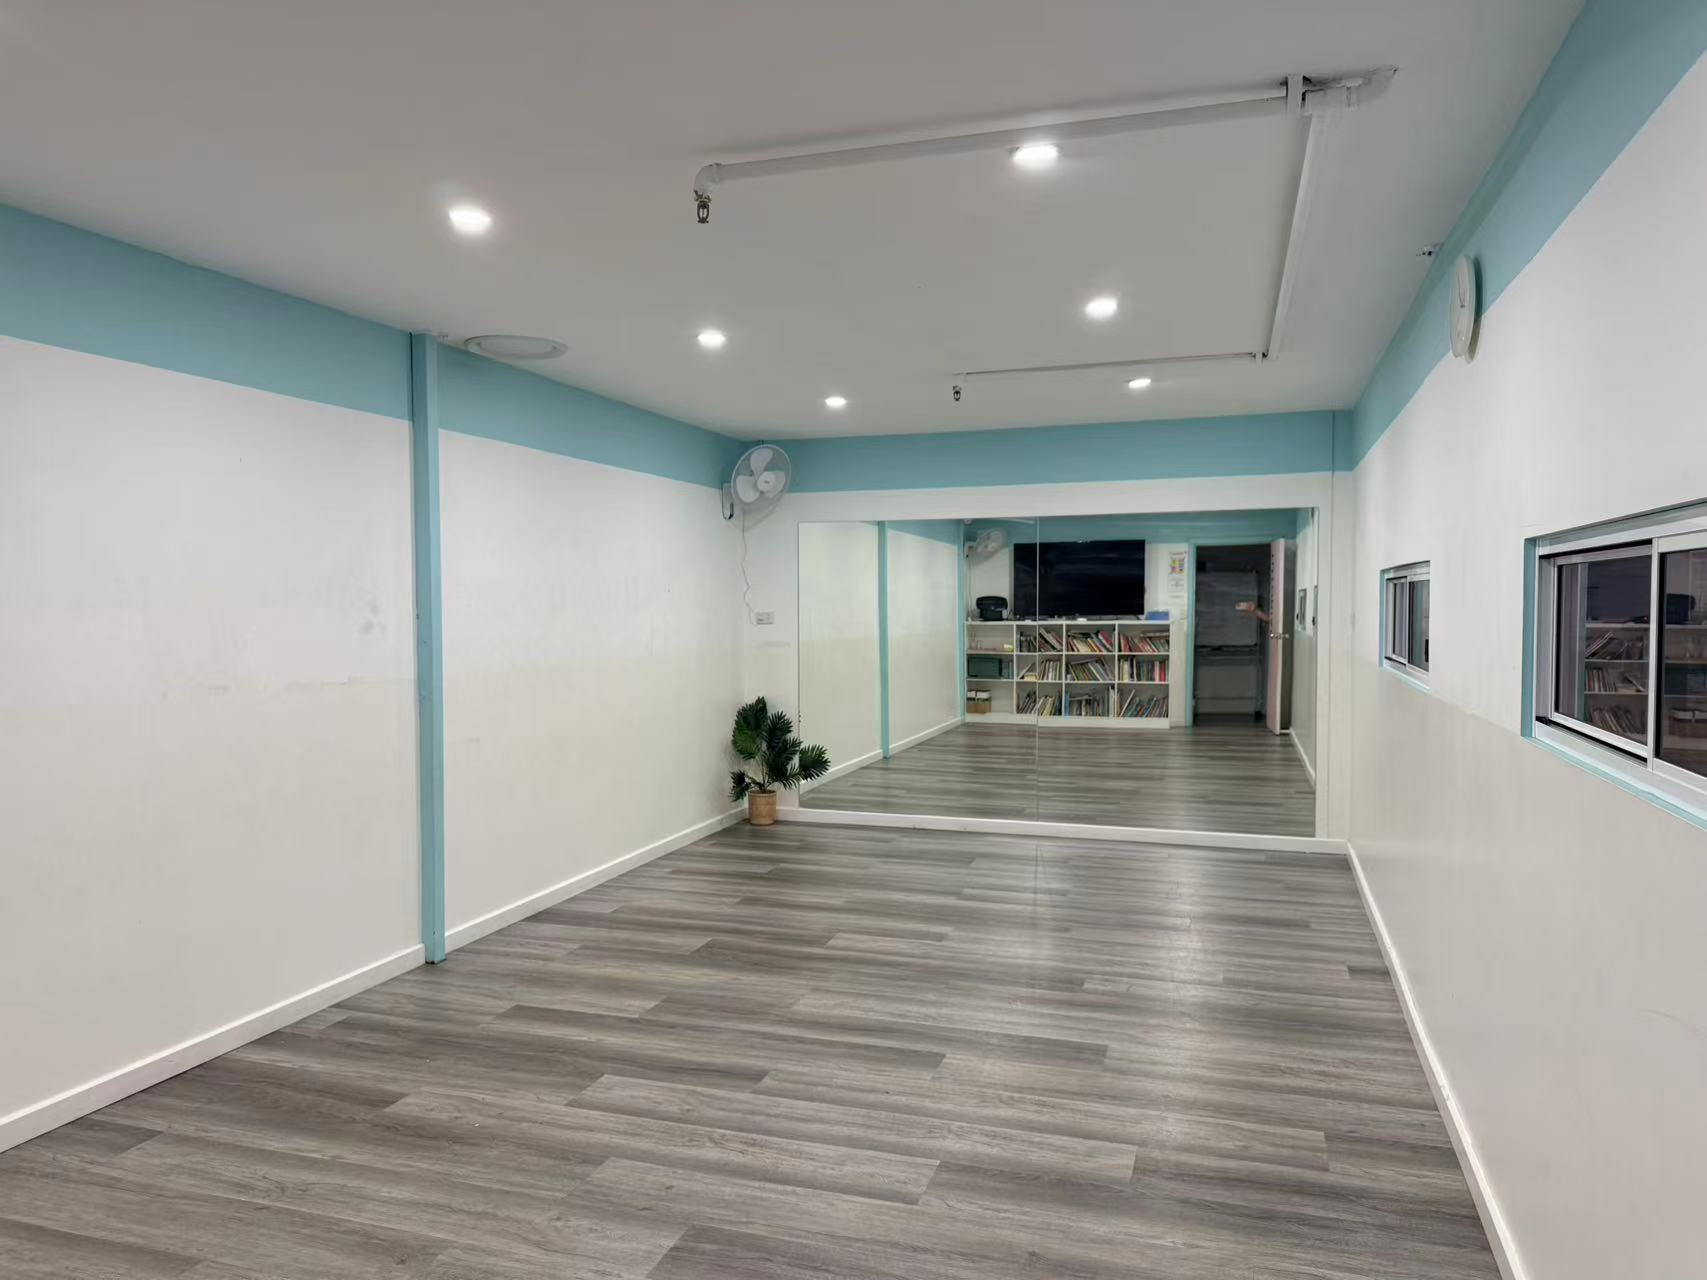
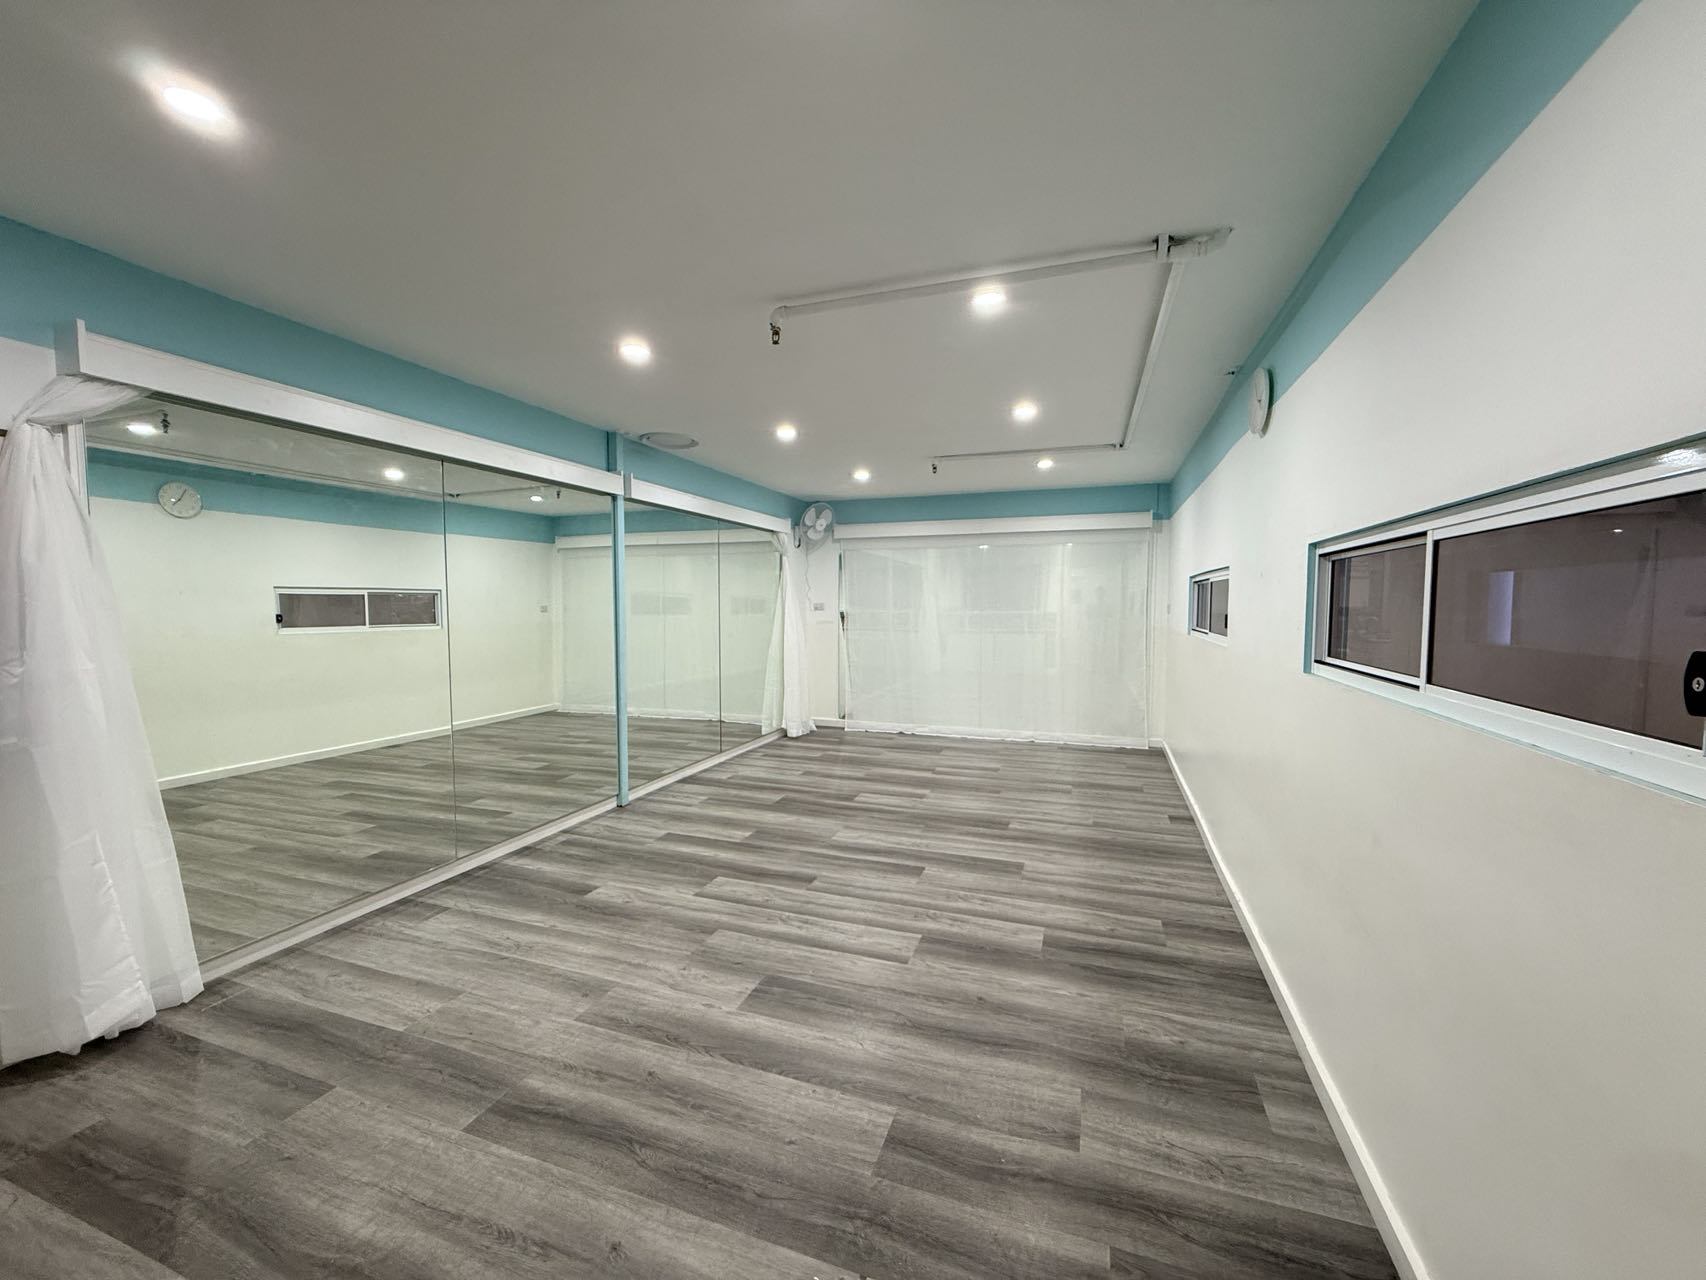
Applied more website changes - photos and reshuffled home page

diff --git a/skydance-app/src/lib/data/danceEvents.js b/skydance-app/src/lib/data/danceEvents.js
@@ -51,6 +51,27 @@ const danceEvents = [
     ...defaultSettings,
   },
   {
+    title: "Buddha's Birthday Multicultural Festival",
+    date: "2026-05-05",
+    location: "Darling Harbour",
+    img: "url('/chinesedance/Chinese1.jpg')",
+    ...defaultSettings,
+  },
+  {
+    title: "Bravery Buddies Song and Dance Challenge Troupe",
+    date: "2026-05-24",
+    location: "Mount St Joseph High School",
+    img: "url('/lyrical/Lyrical7.jpg')",
+    ...defaultSettings,
+  },
+  {
+    title: "World of Dance Sydney Qualifier",
+    date: "2026-05-31",
+    location: "Hurtsville Entertainment Centre",
+    img: "url('/contemporary/contemporary6.jpg')",
+    ...defaultSettings,
+  },
+  {
     title: "2026 School Photo Day & Concert Dress Rehearsal ",
     date: "2026-10-03",
     location: "Sky Dance Studio",

diff --git a/skydance-app/src/lib/data/homeEvents.js b/skydance-app/src/lib/data/homeEvents.js
@@ -1,18 +1,11 @@
-// import danceEvents from "./danceWorkshops";
-
 import danceEvents from "./danceEvents";
 import danceIntensives from "./danceIntensives";
 import danceWorkshops from "./danceWorkshops";
 
 const homeEvents = [
-  // // Add 3 events / workshops
-  // danceEvents[0],
-  // danceEvents[1],
-  // danceIntensives[0],
-
   // Home Cards
   {
-    title: "Dance Classes",
+    title: "Fun recreational classes",
     caption1: "Ballet, Hip Hop, And More",
     caption2: "For All Ages",
     button: "Explore",
@@ -20,22 +13,23 @@ const homeEvents = [
     img: "url('/lyrical/Lyrical11.jpg')",
   },
   {
-    title: "Adults Classes",
+    title: "Competition Teams & Training",
     caption1: "Learn to Dance",
     caption2: "Chinese Dance, Ballet, Jazz",
     button: "Explore",
     link: "/class/dance",
     img: "url('/chinesedance/Chinese8.jpg')",
   },
-  danceIntensives[0],
-  danceWorkshops[0],
+  danceIntensives[1],
+  danceWorkshops[2],
+  danceWorkshops[3],
   {
     title: "Venue Hire",
     caption1: "Studio spaces",
     caption2: "Perfect for parties, workshops and more",
     button: "Explore",
     link: "/studiohire",
-    img: "url('/studios/Studio1.jpg')",
+    img: "url('/studios/TheatreRoom.jpg')",
   },
 ];
 

diff --git a/skydance-app/src/lib/data/danceWorkshops.js b/skydance-app/src/lib/data/danceWorkshops.js
@@ -25,6 +25,23 @@ const danceWorkshops = [
     dateEnd: "2026-04-07",
     ...defaultSettings,
   },
+  {
+    title: "Hip Hop Masterclass with Jacob Yarr",
+    // caption1:
+    caption2: "21st May 2026, 5:30-7pm",
+    dateStart: "2026-04-07",
+    dateEnd: "2026-04-07",
+    ...defaultSettings,
+    img: "url('/hiphop/Hiphop4.jpg')",
+  },
+  {
+    title: "Conditioning Masterclass with Keelia Hill",
+    // caption1:
+    caption2: "17th May 2026, 9am-12pm",
+    dateStart: "2026-04-07",
+    dateEnd: "2026-04-07",
+    ...defaultSettings,
+  },
 ];
 
 export default danceWorkshops;

diff --git a/skydance-app/src/lib/data/studiosForHire.js b/skydance-app/src/lib/data/studiosForHire.js
@@ -18,21 +18,16 @@ const studiosForHire = [
     image: "/studios/StudioMusic.jpg",
   },
   {
-    title: "Solo Room",
-    description:
-      "A 50m² studio featuring professional dance flooring, full-height mirror on 1 wall and ballet barres.",
-    image: "/studios/StudioSoloRoom.jpg",
-  },
-  {
     title: "Tutorial Room",
     description:
       "Spacious room with a large table for up to 12, whiteboard, and full-length mirror. Perfect for tutoring, art workshops, group classes, or solo practice.",
     image: "/studios/TutorialRoom.jpg",
   },
   {
-    title: "Theatre Room - Coming Soon",
-    description: "Under Construction.",
-    image: "/studios/TheatreRoom.webp",
+    title: "Theatre Room - Newly Opened",
+    description:
+      "Spacious 100m² studio featuring professional dance flooring, full-height mirror on 1 wall and ballet barres.",
+    image: "/studios/TheatreRoom.jpg",
   },
 ];
 

diff --git a/skydance-app/src/app/class/dance/programs/page.js b/skydance-app/src/app/class/dance/programs/page.js
@@ -29,16 +29,10 @@ export default function DancePrograms() {
 
       <Box maxWidth={"xl"} margin={"auto"}>
         {/* Workshops */}
-        <SwiperDanceEvents
-          events={danceWorkshops}
-          heading={"Upcoming Workshops"}
-        />
+        <SwiperDanceEvents events={danceWorkshops} heading={"Workshops"} />
 
         {/* Intensives */}
-        <SwiperDanceEvents
-          events={danceIntensives}
-          heading={"Upcoming Intensives"}
-        />
+        <SwiperDanceEvents events={danceIntensives} heading={"Intensives"} />
       </Box>
 
       <DanceProgramEnrolment />

diff --git a/skydance-app/src/app/page.js b/skydance-app/src/app/page.js
@@ -88,10 +88,10 @@ export default function Home() {
             </AnimateInView>
           </Hero>
 
-          {/* Link List */}
+          {/* Link List - 5 or 6 items*/}
           <Grid container spacing={0} sx={{ alignItems: "stretch" }}>
-            {/* Row 1 (2 items)*/}
-            {homeEvents.slice(0, 2).map((item) => (
+            {/* Row 1 to 3 (2 items each)*/}
+            {homeEvents.map((item) => (
               <Grid key={item.title} size={{ xs: 12, sm: 6 }}>
                 <HeroGrows
                   backgroundImage={item.img}
@@ -113,7 +113,7 @@ export default function Home() {
                 </HeroGrows>
               </Grid>
             ))}
-            {/* Row 2 (3 items) - can add more if wanted */}
+            {/* Row 2 (3 items) - can add more if wanted
             {homeEvents.slice(2, 8).map((item, index) => {
               const numberEvents = 3;
               // Sm + Medium screens: grid items in the last row automatically resize
@@ -152,7 +152,7 @@ export default function Home() {
                   </HeroGrows>
                 </Grid>
               );
-            })}
+            })} */}
           </Grid>
         </div>
       </main>

diff --git a/skydance-app/src/app/class/dance/page.js b/skydance-app/src/app/class/dance/page.js
@@ -64,7 +64,7 @@ export default function DancePage() {
         <AnimateInView>
           <SwiperDanceEvents
             events={danceWorkshops}
-            heading={"Upcoming Workshops"}
+            heading={"Workshops"}
             link={"/class/dance/programs"}
           />
         </AnimateInView>
@@ -73,7 +73,7 @@ export default function DancePage() {
         <AnimateInView>
           <SwiperDanceEvents
             events={danceIntensives}
-            heading={"Upcoming Intensives"}
+            heading={"Intensives"}
             link={"/class/dance/programs"}
           />
         </AnimateInView>

diff --git a/skydance-app/src/lib/data/staff.js b/skydance-app/src/lib/data/staff.js
@@ -67,6 +67,10 @@ const staffData = [
     title: "Dinley",
     src: "/dinley.jpg",
   },
+  {
+    title: "Molly",
+    src: "/molly.jpg",
+  },
 ];
 
 export default staffData;

diff --git a/skydance-app/src/components/forms/StudioHire.js b/skydance-app/src/components/forms/StudioHire.js
@@ -144,7 +144,8 @@ export default function StudioHireForm() {
                   <MenuItem value="Studio-1">Studio 1</MenuItem>
                   <MenuItem value="Studio-2">Studio 2</MenuItem>
                   <MenuItem value="Music-Room">Music Room</MenuItem>
-                  <MenuItem value="Solo-Room">Solo Room</MenuItem>
+                  <MenuItem value="Tutorial-Room">Tutorial Room</MenuItem>
+                  <MenuItem value="Theatre-Room">Theatre Room</MenuItem>
                 </Select>
               </FormControl>
 